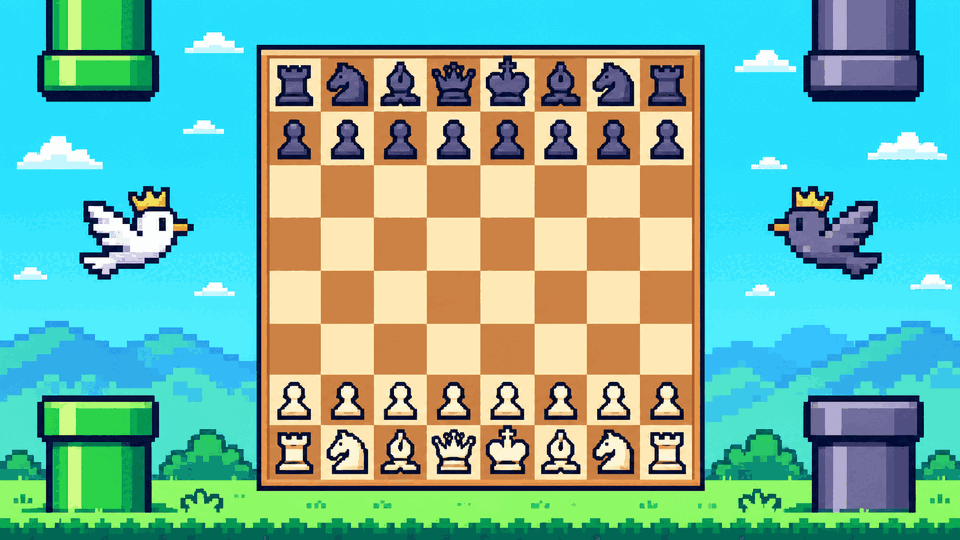
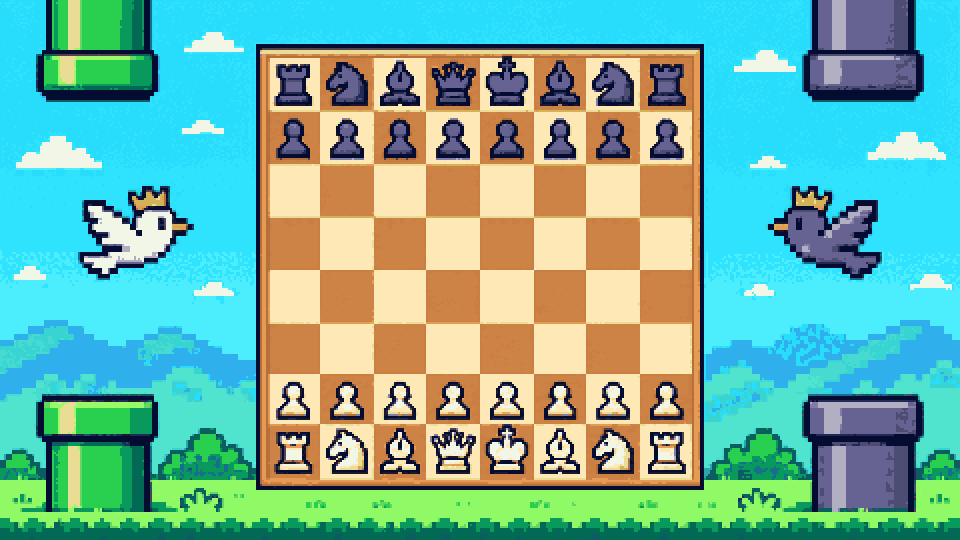
Polish browser lobby pixel art (#3)

diff --git a/web/src/main/webapp/style.css b/web/src/main/webapp/style.css
@@ -156,7 +156,7 @@ body.mobile.online { --network-space: calc(48px + env(safe-area-inset-top)); }
   display: block;
   padding: 0;
   color: var(--ink);
-  background: linear-gradient(180deg, #38aaf0 0, var(--sky-light) 72%, #d9f6ff 100%);
+  background: linear-gradient(180deg, #45b8f5 0 54%, #83d6f8 54% 76%, #c7efff 76% 100%);
   image-rendering: pixelated;
 }
 #welcome[hidden] { display: none; }
@@ -171,8 +171,8 @@ body.mobile.online { --network-space: calc(48px + env(safe-area-inset-top)); }
   padding: 8px clamp(18px, 4vw, 64px);
   border-bottom: 4px solid #43528b;
   color: #fff;
-  background: linear-gradient(180deg, #30345f, #222748);
-  box-shadow: 0 4px 0 #ffffff38 inset;
+  background: #25264d;
+  box-shadow: 0 4px 0 #43528b inset;
   width: 100%;
 }
 .lobby-brand {
@@ -232,20 +232,11 @@ body.mobile.online { --network-space: calc(48px + env(safe-area-inset-top)); }
   filter: drop-shadow(6px 7px 0 #111943);
   image-rendering: pixelated;
 }
-#welcome h1 {
-  margin: 0;
-  transform: rotate(-1deg);
-  font-family: 'Lobby Block', 'Arial Black', sans-serif;
-  font-size: clamp(54px, 6.6vw, 92px);
-  font-weight: 900;
-  line-height: .74;
-  letter-spacing: -.075em;
-  text-align: center;
-  text-shadow: 0 5px 0 #fff, 5px 5px 0 #111943, 9px 10px 0 #111943;
+.title-lockup > .title-wordmark {
+  width: min(92%, 420px);
+  margin: 0 auto;
+  filter: none;
 }
-#welcome h1 span, #welcome h1 strong { display: block; }
-#welcome h1 span { color: #fff; -webkit-text-stroke: 5px #111943; paint-order: stroke fill; }
-#welcome h1 strong { margin-top: 18px; color: #ffd43b; -webkit-text-stroke: 5px #111943; paint-order: stroke fill; }
 .checkered-divider {
   display: flex;
   align-items: center;
@@ -292,8 +283,8 @@ body.mobile.online { --network-space: calc(48px + env(safe-area-inset-top)); }
   margin: 0 0 5px;
   padding: 12px 8px;
   border: 4px solid var(--ink);
-  border-radius: 7px;
-  box-shadow: 0 7px 0 var(--edge, #9f7620), inset 0 3px 0 #ffffff82;
+  border-radius: 2px;
+  box-shadow: 0 7px 0 var(--edge, #9f7620), inset 0 3px 0 #fff5c8;
   color: var(--ink);
   background: var(--face, #ffc44e);
   font: 900 clamp(15px, 1.28vw, 20px)/1.06 'Lobby Block', 'Arial Black', sans-serif;
@@ -381,7 +372,7 @@ body[data-room-state="waiting"] .lobby-details { display: none; }
   .lobby-page { padding: 32px 16px 20px; }
   .lobby-hero { grid-template-columns: 1fr; gap: 38px; }
   .title-lockup > img { width: min(44%, 175px); }
-  #welcome h1 { font-size: clamp(62px, 18vw, 92px); }
+  .title-lockup > .title-wordmark { width: min(92%, 420px); }
   .preview-frame { width: min(100%, 680px); margin: 0 auto; }
   .lobby-actions { grid-template-columns: 1fr 1fr; margin-top: 36px; }
   .join-card { grid-column: 1 / -1; display: grid; grid-template-columns: minmax(0, 1fr) minmax(150px, .55fr); align-items: end; gap: 8px; }
@@ -397,13 +388,12 @@ body[data-room-state="waiting"] .lobby-details { display: none; }
   .lobby-current { display: none; }
   .lobby-page { padding-top: 26px; }
   .title-lockup > img { width: 145px; margin-bottom: -8px; }
-  #welcome h1 { font-size: 64px; }
-  #welcome h1 strong { margin-top: 14px; }
+  .title-lockup > .title-wordmark { width: min(94%, 330px); }
   #welcome .tagline { margin-top: 24px; font-size: 10px; }
   .lobby-hero { gap: 32px; }
   .preview-frame { padding: 6px; border-width: 4px; box-shadow: inset 0 0 0 2px #9fc9f1, 5px 6px 0 #1a2755; }
   .lobby-actions { gap: 12px; }
-  #welcome .mode-button { min-height: 62px; padding: 9px 6px; font-size: 14px; border-width: 3px; box-shadow: 0 6px 0 var(--edge), inset 0 3px 0 #ffffff82; }
+  #welcome .mode-button { min-height: 62px; padding: 9px 6px; font-size: 14px; border-width: 3px; box-shadow: 0 6px 0 var(--edge), inset 0 3px 0 #fff5c8; }
   .join-card { display: grid; grid-template-columns: 1fr; }
   .join-card label { grid-column: auto; }
   .join-card input { height: 46px; }

diff --git a/web/src/main/webapp/index.html b/web/src/main/webapp/index.html
@@ -110,7 +110,8 @@
       <section class="lobby-hero" aria-labelledby="lobby-title">
         <div class="title-lockup">
           <img src="./art/crowned-bird.png" alt="A crowned white bird in flight" width="230" height="155">
-          <h1 id="lobby-title"><span>FLAPPY</span><strong>CHESS</strong></h1>
+          <h1 id="lobby-title" class="sr-only">Flappy Chess</h1>
+          <img class="title-wordmark" src="./art/title-wordmark.png" alt="" width="420" height="176">
           <div class="checkered-divider" aria-hidden="true"><span></span></div>
           <p class="tagline">Take flight. Make your move.</p>
         </div>
